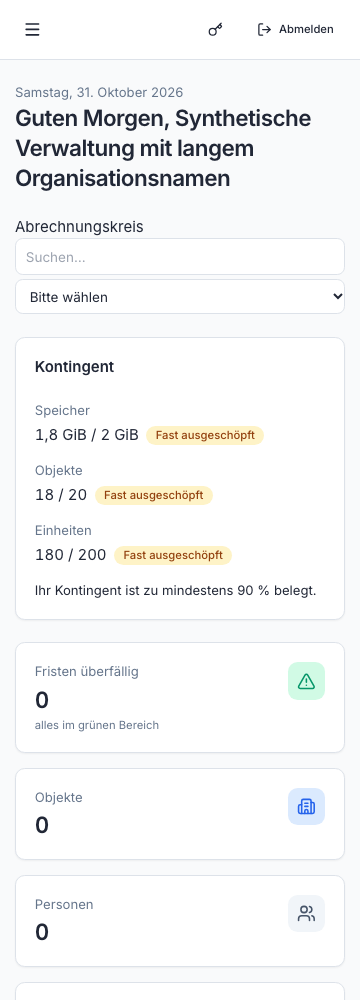
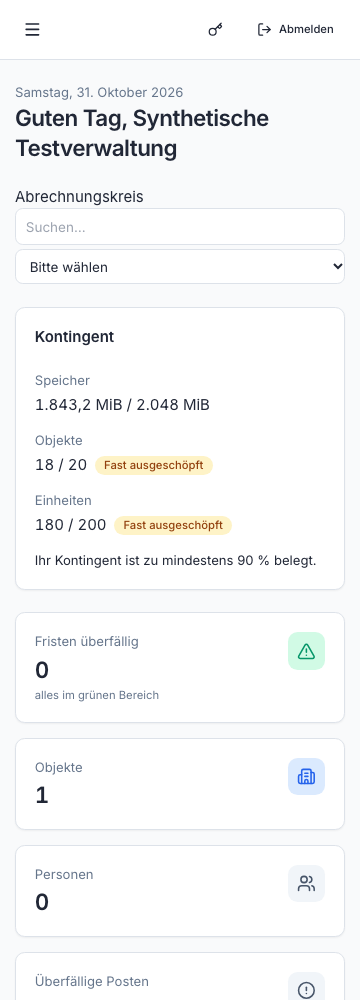
fix(quotas): unify upload limit formatting
Upload hints, the quota card and backend refusals used different size formats. Share German MiB formatting with at most two decimal places and matching half-up rounding. Remove the harness-only quota scenario and its steps, retaining the session headroom guard.

Verification: 120 focused frontend tests, 114 quota/attachment tests and 37 hosted scenarios passed (13 skipped). Lint, documentation links and 13 rule tests passed. Browser checks covered four screens at 1280 and 360 px. The unchanged bank suite passed five times and once under CPU load.

Refs #141

diff --git a/frontend/src/components/OrganizationQuotaCard.test.tsx b/frontend/src/components/OrganizationQuotaCard.test.tsx
@@ -3,10 +3,32 @@ import { cleanup, render, screen } from "@testing-library/react";
 import { useDeploymentMode } from "../auth/useDeploymentMode";
 import { getOrganizationQuota } from "../api/endpoints";
 import { OrganizationQuotaCard } from "./OrganizationQuotaCard";
+import { formatUploadLimit, MAX_UPLOAD_BYTES } from "../lib/uploads";
 
 vi.mock("../auth/useDeploymentMode");
 vi.mock("../api/endpoints", () => ({ getOrganizationQuota: vi.fn() }));
 afterEach(() => { cleanup(); vi.resetAllMocks(); });
+
+it.each([
+  [MAX_UPLOAD_BYTES, "25 MiB"],
+  [1.5 * 1024 ** 2, "1,5 MiB"],
+  [1_294_537, "1,23 MiB"],
+  [1.125 * 1024 ** 2, "1,13 MiB"],
+  [2 * 1024 ** 3, "2.048 MiB"],
+])("formats %i bytes with at most two German decimal places", (bytes, expected) => {
+  expect(formatUploadLimit(bytes)).toBe(expected);
+});
+
+it("uses the shared size formatter for hosted storage usage and limits", async () => {
+  vi.mocked(useDeploymentMode).mockReturnValue({ mode: "hosted", error: false, mailAvailable: false });
+  vi.mocked(getOrganizationQuota).mockResolvedValue({
+    plan: "free",
+    usage: { storage_bytes: 1_294_537, properties: 1, units: 2, ai_budget_usd: "0" },
+    limits: { storage_bytes: 2 * 1024 ** 3, properties: 20, units: 200, upload_bytes: MAX_UPLOAD_BYTES, ai_budget_usd: "0" },
+  });
+  render(<OrganizationQuotaCard />);
+  expect(await screen.findByText(`${formatUploadLimit(1_294_537)} / ${formatUploadLimit(2 * 1024 ** 3)}`)).toBeVisible();
+});
 
 it.each(["selfhost", null] as const)("renders nothing and skips quota requests while mode is %s", mode => {
   vi.mocked(useDeploymentMode).mockReturnValue({ mode, error: false, mailAvailable: false });

diff --git a/frontend/src/pages/DeclarationImportPage.test.tsx b/frontend/src/pages/DeclarationImportPage.test.tsx
@@ -1,5 +1,5 @@
 import { api } from "../api/client";
-import { MAX_UPLOAD_BYTES } from "../lib/uploads";
+import { formatUploadLimit, MAX_UPLOAD_BYTES } from "../lib/uploads";
 import { afterEach, describe, expect, it, vi } from "vitest";
 import { cleanup, fireEvent, render, screen, waitFor } from "@testing-library/react";
 import { MemoryRouter, Route, Routes } from "react-router-dom";
@@ -278,13 +278,13 @@ describe("Teilungserklärung upload wizard", () => {
 
     expect(await screen.findByText(/nur PDF-Dateien/i)).toBeVisible();
     expect(screen.getByText(/„umbenannt\.pdf“ ist keine PDF-Datei/i)).toBeVisible();
-    expect(screen.getByText((text) => text.includes(`„gross.pdf“ ist größer als maximal ${(MAX_UPLOAD_BYTES / 1024 ** 2).toLocaleString("de-DE")} MiB`))).toBeVisible();
+    expect(screen.getByText((text) => text.includes(`„gross.pdf“ ist größer als maximal ${formatUploadLimit(MAX_UPLOAD_BYTES)}`))).toBeVisible();
     expect(uploadSpy).not.toHaveBeenCalled();
   });
 
   it("uses the backend metadata cap for file selection boundaries", async () => {
-    const metadata = { max_upload_bytes: 1.5 * 1024 ** 2 };
-    const formattedLimit = `${(metadata.max_upload_bytes / 1024 ** 2).toLocaleString("de-DE")} MiB`;
+    const metadata = { max_upload_bytes: 1_294_537 };
+    const formattedLimit = formatUploadLimit(metadata.max_upload_bytes);
     const get = api.get;
     vi.spyOn(api, "get").mockImplementation((url, options) => url === "/api/meta"
       ? Promise.resolve(metadata) : get(url, options));

diff --git a/frontend/src/components/OrganizationQuotaCard.tsx b/frontend/src/components/OrganizationQuotaCard.tsx
@@ -5,12 +5,7 @@ import { Card, CardContent, CardHeader } from "./ui/card";
 import { Badge } from "./ui/badge";
 import { Button } from "./ui/button";
 import { useDeploymentMode } from "../auth/useDeploymentMode";
-
-function size(bytes: number): string {
-  const unit = bytes >= 1024 ** 3 ? "GiB" : "MiB";
-  const divisor = unit === "GiB" ? 1024 ** 3 : 1024 ** 2;
-  return `${(bytes / divisor).toLocaleString("de-DE", { maximumFractionDigits: 2 })} ${unit}`;
-}
+import { formatUploadLimit } from "../lib/uploads";
 
 export function OrganizationQuotaCard() {
   const { mode } = useDeploymentMode();
@@ -27,7 +22,7 @@ export function OrganizationQuotaCard() {
   }, [mode, revision]);
   if (mode !== "hosted" || quota?.plan === "unlimited") return null;
   const rows = quota ? [
-    { label: "Speicher", usage: quota.usage.storage_bytes, limit: quota.limits.storage_bytes, format: size },
+    { label: "Speicher", usage: quota.usage.storage_bytes, limit: quota.limits.storage_bytes, format: formatUploadLimit },
     { label: "Objekte", usage: quota.usage.properties, limit: quota.limits.properties, format: (n: number) => n.toLocaleString("de-DE") },
     { label: "Einheiten", usage: quota.usage.units, limit: quota.limits.units, format: (n: number) => n.toLocaleString("de-DE") },
   ] : [];

diff --git a/frontend/src/pages/IntakePages.test.tsx b/frontend/src/pages/IntakePages.test.tsx
@@ -3,6 +3,7 @@ import { cleanup, fireEvent, render, screen, waitFor } from '@testing-library/re
 import { MemoryRouter, Route, Routes } from 'react-router-dom';
 import { InboxPage } from './InboxPage';
 import { IntakeBatchPage } from './IntakeBatchPage';
+import { formatUploadLimit } from '../lib/uploads';
 
 vi.mock('../auth/useAuth', () => ({ useAuth: () => ({ session: { role: 'CLERK' } }) }));
 vi.mock('../api/intake', async importOriginal => {
@@ -20,8 +21,8 @@ function page(path = '/posteingang') {
 afterEach(() => { cleanup(); vi.unstubAllGlobals(); vi.restoreAllMocks(); });
 
 it('rejects files above the metadata cap before creating an intake batch', async () => {
-  const metadata = { max_upload_bytes: 1.5 * 1024 ** 2 };
-  const formattedLimit = `${(metadata.max_upload_bytes / 1024 ** 2).toLocaleString('de-DE')} MiB`;
+  const metadata = { max_upload_bytes: 1_294_537 };
+  const formattedLimit = formatUploadLimit(metadata.max_upload_bytes);
   const fetch = vi.fn(async (url: string) => url === '/api/meta'
     ? json(metadata) : json({ items: [], next_cursor: null }));
   vi.stubGlobal('fetch', fetch);

diff --git a/frontend/src/components/AttachmentsPanel.test.tsx b/frontend/src/components/AttachmentsPanel.test.tsx
@@ -4,6 +4,7 @@ import userEvent from "@testing-library/user-event";
 import { AttachmentsPanel } from "./AttachmentsPanel";
 import * as endpoints from "../api/endpoints";
 import { ApiError, uploadFormData } from "../api/client";
+import { formatUploadLimit } from "../lib/uploads";
 import type { Attachment, Property } from "../api/types";
 
 vi.mock("../api/endpoints", async (original) => ({
@@ -48,8 +49,8 @@ it("shows the backend storage quota refusal from the upload response to the memb
 });
 
 it("rejects attachments above the metadata cap before uploading", async () => {
-  const metadata = { max_upload_bytes: 1.5 * 1024 ** 2 };
-  const formattedLimit = `${(metadata.max_upload_bytes / 1024 ** 2).toLocaleString("de-DE")} MiB`;
+  const metadata = { max_upload_bytes: 1_294_537 };
+  const formattedLimit = formatUploadLimit(metadata.max_upload_bytes);
   vi.spyOn(globalThis, "fetch").mockImplementation(async () => new Response(JSON.stringify(metadata)));
   render(<AttachmentsPanel propertyId="property" canWrite />);
   await screen.findByText("Keine Dokumente vorhanden.");

diff --git a/frontend/src/lib/uploads.ts b/frontend/src/lib/uploads.ts
@@ -5,7 +5,7 @@ import { api } from "../api/client";
 export const MAX_UPLOAD_BYTES = 25 * 1024 * 1024;
 
 export function formatUploadLimit(bytes: number): string {
-  return `${(bytes / 1024 ** 2).toLocaleString("de-DE", { maximumFractionDigits: 6 })} MiB`;
+  return `${(bytes / 1024 ** 2).toLocaleString("de-DE", { maximumFractionDigits: 2 })} MiB`;
 }
 
 export function useUploadLimit() {

diff --git a/backend/tests/test_quotas.py b/backend/tests/test_quotas.py
@@ -13,6 +13,39 @@ from sqlalchemy import text
 from fastapi import HTTPException
 
 
+@pytest.mark.parametrize("limit, formatted", [
+    (25 * 1024**2, "25 MiB"),
+    (int(1.5 * 1024**2), "1,5 MiB"),
+    (1_294_537, "1,23 MiB"),
+    (int(1.125 * 1024**2), "1,13 MiB"),
+    (2 * 1024**3, "2.048 MiB"),
+])
+def test_upload_refusal_formats_the_cap_like_the_frontend(limit, formatted):
+    from app.core.quotas import FREE_PLAN, check_quota
+    decision = check_quota(0, replace(FREE_PLAN, upload_bytes=limit), "upload_bytes", limit + 1)
+    assert decision.code == "UPLOAD_TOO_LARGE"
+    assert decision.message == f"Datei zu groß (maximal {formatted}). Bitte wählen Sie eine kleinere Datei."
+
+
+@pytest.mark.asyncio
+@pytest.mark.parametrize("limit, formatted", [(25 * 1024**2, "25 MiB"), (1_294_537, "1,23 MiB")])
+async def test_upload_413_formats_the_cap_like_the_frontend(limit, formatted):
+    import json
+    from app.core.uploads import RequestBodyLimitMiddleware
+    from tests.test_upload_limits import _run_asgi_app
+
+    async def forbidden(*args):
+        pytest.fail("Oversized upload reached the parser")
+
+    sent = await _run_asgi_app(RequestBodyLimitMiddleware(forbidden, max_body_bytes=limit),
+        path="/api/attachments", headers=[(b"content-length", str(limit + 1).encode())], messages=[])
+    assert sent[0]["status"] == 413
+    assert json.loads(sent[1]["body"])["detail"] == {
+        "code": "UPLOAD_TOO_LARGE",
+        "message": f"Anfrage zu groß (maximal {formatted}). Bitte wählen Sie eine kleinere Datei.",
+    }
+
+
 @pytest.mark.asyncio
 @pytest.mark.parametrize("path", ["preview", "apply"])
 @pytest.mark.parametrize("content_length", [False, True])
@@ -421,7 +454,7 @@ async def test_selfhost_upload_safety_refusal_uses_the_actual_limit(monkeypatch)
     monkeypatch.setattr(settings, "deployment_mode", "selfhost")
     with pytest.raises(HTTPException) as error:
         await read_upload_limited(ChunkedUpload(b"abcde"), max_bytes=4)
-    assert error.value.detail == {"code": "UPLOAD_TOO_LARGE", "message": "Datei zu groß (maximal 4 Bytes). Bitte wählen Sie eine kleinere Datei."}
+    assert error.value.detail == {"code": "UPLOAD_TOO_LARGE", "message": "Datei zu groß (maximal 0 MiB). Bitte wählen Sie eine kleinere Datei."}
 
 
 @pytest.mark.asyncio
@@ -433,7 +466,7 @@ async def test_property_document_oversize_is_structured_and_uses_the_safety_limi
         await service.upload(uuid.uuid4(), b"%PDF-", original_filename="large.pdf",
                              mime_type="application/pdf", document_role="TEILUNGSERKLAERUNG", sequence_no=1)
     assert error.value.status_code == 413
-    assert error.value.detail == {"code": "UPLOAD_TOO_LARGE", "message": "Datei zu groß (maximal 4 Bytes). Bitte wählen Sie eine kleinere Datei."}
+    assert error.value.detail == {"code": "UPLOAD_TOO_LARGE", "message": "Datei zu groß (maximal 0 MiB). Bitte wählen Sie eine kleinere Datei."}
 
 
 @pytest.mark.asyncio

diff --git a/backend/app/core/quotas.py b/backend/app/core/quotas.py
@@ -15,7 +15,7 @@ from decimal import Decimal
 from typing import Literal
 
 from app.core.deployment_policy import get_deployment_policy
-from app.core.document_limits import MAX_UPLOAD_BYTES
+from app.core.document_limits import MAX_UPLOAD_BYTES, format_upload_limit
 
 QuotaKind = Literal["storage_bytes", "upload_bytes", "properties", "units", "ai_budget_usd"]
 
@@ -60,7 +60,7 @@ def check_quota(usage: int | Decimal, plan: QuotaPlan, kind: QuotaKind,
         return QuotaDecision(True)
     messages = {
         "storage_bytes": lambda: f"Speicherkontingent erschöpft ({_size(limit)}). Sie können keine weiteren Dokumente speichern.",
-        "upload_bytes": lambda: f"Datei zu groß (maximal {_size(limit)}). Bitte wählen Sie eine kleinere Datei.",
+        "upload_bytes": lambda: f"Datei zu groß (maximal {format_upload_limit(limit)}). Bitte wählen Sie eine kleinere Datei.",
         "properties": lambda: f"Objektkontingent erschöpft ({limit} Objekte). Sie können kein weiteres Objekt anlegen.",
         "units": lambda: f"Einheitenkontingent erschöpft ({limit} Einheiten). Sie können keine weitere Einheit anlegen.",
         "ai_budget_usd": lambda: "Das monatliche KI-Budget ist ausgeschöpft. Bitte wenden Sie sich an den Betreiber.",

diff --git a/backend/app/core/uploads.py b/backend/app/core/uploads.py
@@ -10,6 +10,7 @@ from typing import Protocol
 
 from fastapi import HTTPException
 from dataclasses import replace
+from app.core.document_limits import format_upload_limit
 from app.core.quotas import MAX_UPLOAD_BYTES, check_quota, get_quota_plan
 
 
@@ -146,8 +147,7 @@ class RequestBodyLimitMiddleware:
 
     @staticmethod
     async def _send_too_large(send: Send, body_limit: int) -> None:
-        limit = f"{body_limit / (1024 * 1024):g}".replace(".", ",")
-        body = json.dumps({"detail": {"code": "UPLOAD_TOO_LARGE", "message": f"Anfrage zu groß (maximal {limit} MiB). Bitte wählen Sie eine kleinere Datei."}}, ensure_ascii=False).encode()
+        body = json.dumps({"detail": {"code": "UPLOAD_TOO_LARGE", "message": f"Anfrage zu groß (maximal {format_upload_limit(body_limit)}). Bitte wählen Sie eine kleinere Datei."}}, ensure_ascii=False).encode()
         await send(
             {
                 "type": "http.response.start",

diff --git a/backend/tests/bdd/steps/quotas.py b/backend/tests/bdd/steps/quotas.py
@@ -116,14 +116,3 @@ def independent_quota_organizations(world, quota_organizations):
 def own_usage_only(world):
     before, after = world.data["quota_property_counts"]
     assert after == [before[0] + 1, before[1]]
-
-
-@when("the administrator adds an extra shared scenario property")
-def extra_shared_property(world):
-    world.data["extra_shared_property"] = create_property(world, "Verwaltung Alpha", "Zusätzliches Szenarioobjekt")
-
-
-@then("the extra shared scenario property is available")
-def extra_shared_property_available(world):
-    response = world.look(world.actor, f"/api/properties/{world.data['extra_shared_property'].id}")
-    assert response.status_code == 200, response.text

diff --git a/backend/app/core/document_limits.py b/backend/app/core/document_limits.py
@@ -1,3 +1,12 @@
 """Shared file-content safety cap, independent of deployment and plan selection."""
 
+from decimal import Decimal, ROUND_HALF_UP
+
 MAX_UPLOAD_BYTES = 25 * 1024**2
+
+
+def format_upload_limit(value: int) -> str:
+    """Match the frontend's German MiB display, including half-up rounding."""
+    mib = (Decimal(value) / 1024**2).quantize(Decimal("0.01"), rounding=ROUND_HALF_UP)
+    number = f"{mib:,.2f}".rstrip("0").rstrip(".").translate(str.maketrans(",.", ".,"))
+    return f"{number} MiB"

diff --git a/backend/tests/bdd/conftest.py b/backend/tests/bdd/conftest.py
@@ -69,7 +69,7 @@ def shared_hosted_property_headroom(seed_data, request):
 
     usage = {"seed_data": seed_data, "peaks": {}}
     yield usage
-    # Keep at least two slots free after the extra-property regression scenario.
+    # Keep at least two slots free throughout the shared scenarios.
     minimum_headroom = 2
     problems = []
     for name, count in shared_property_counts(seed_data).items():
